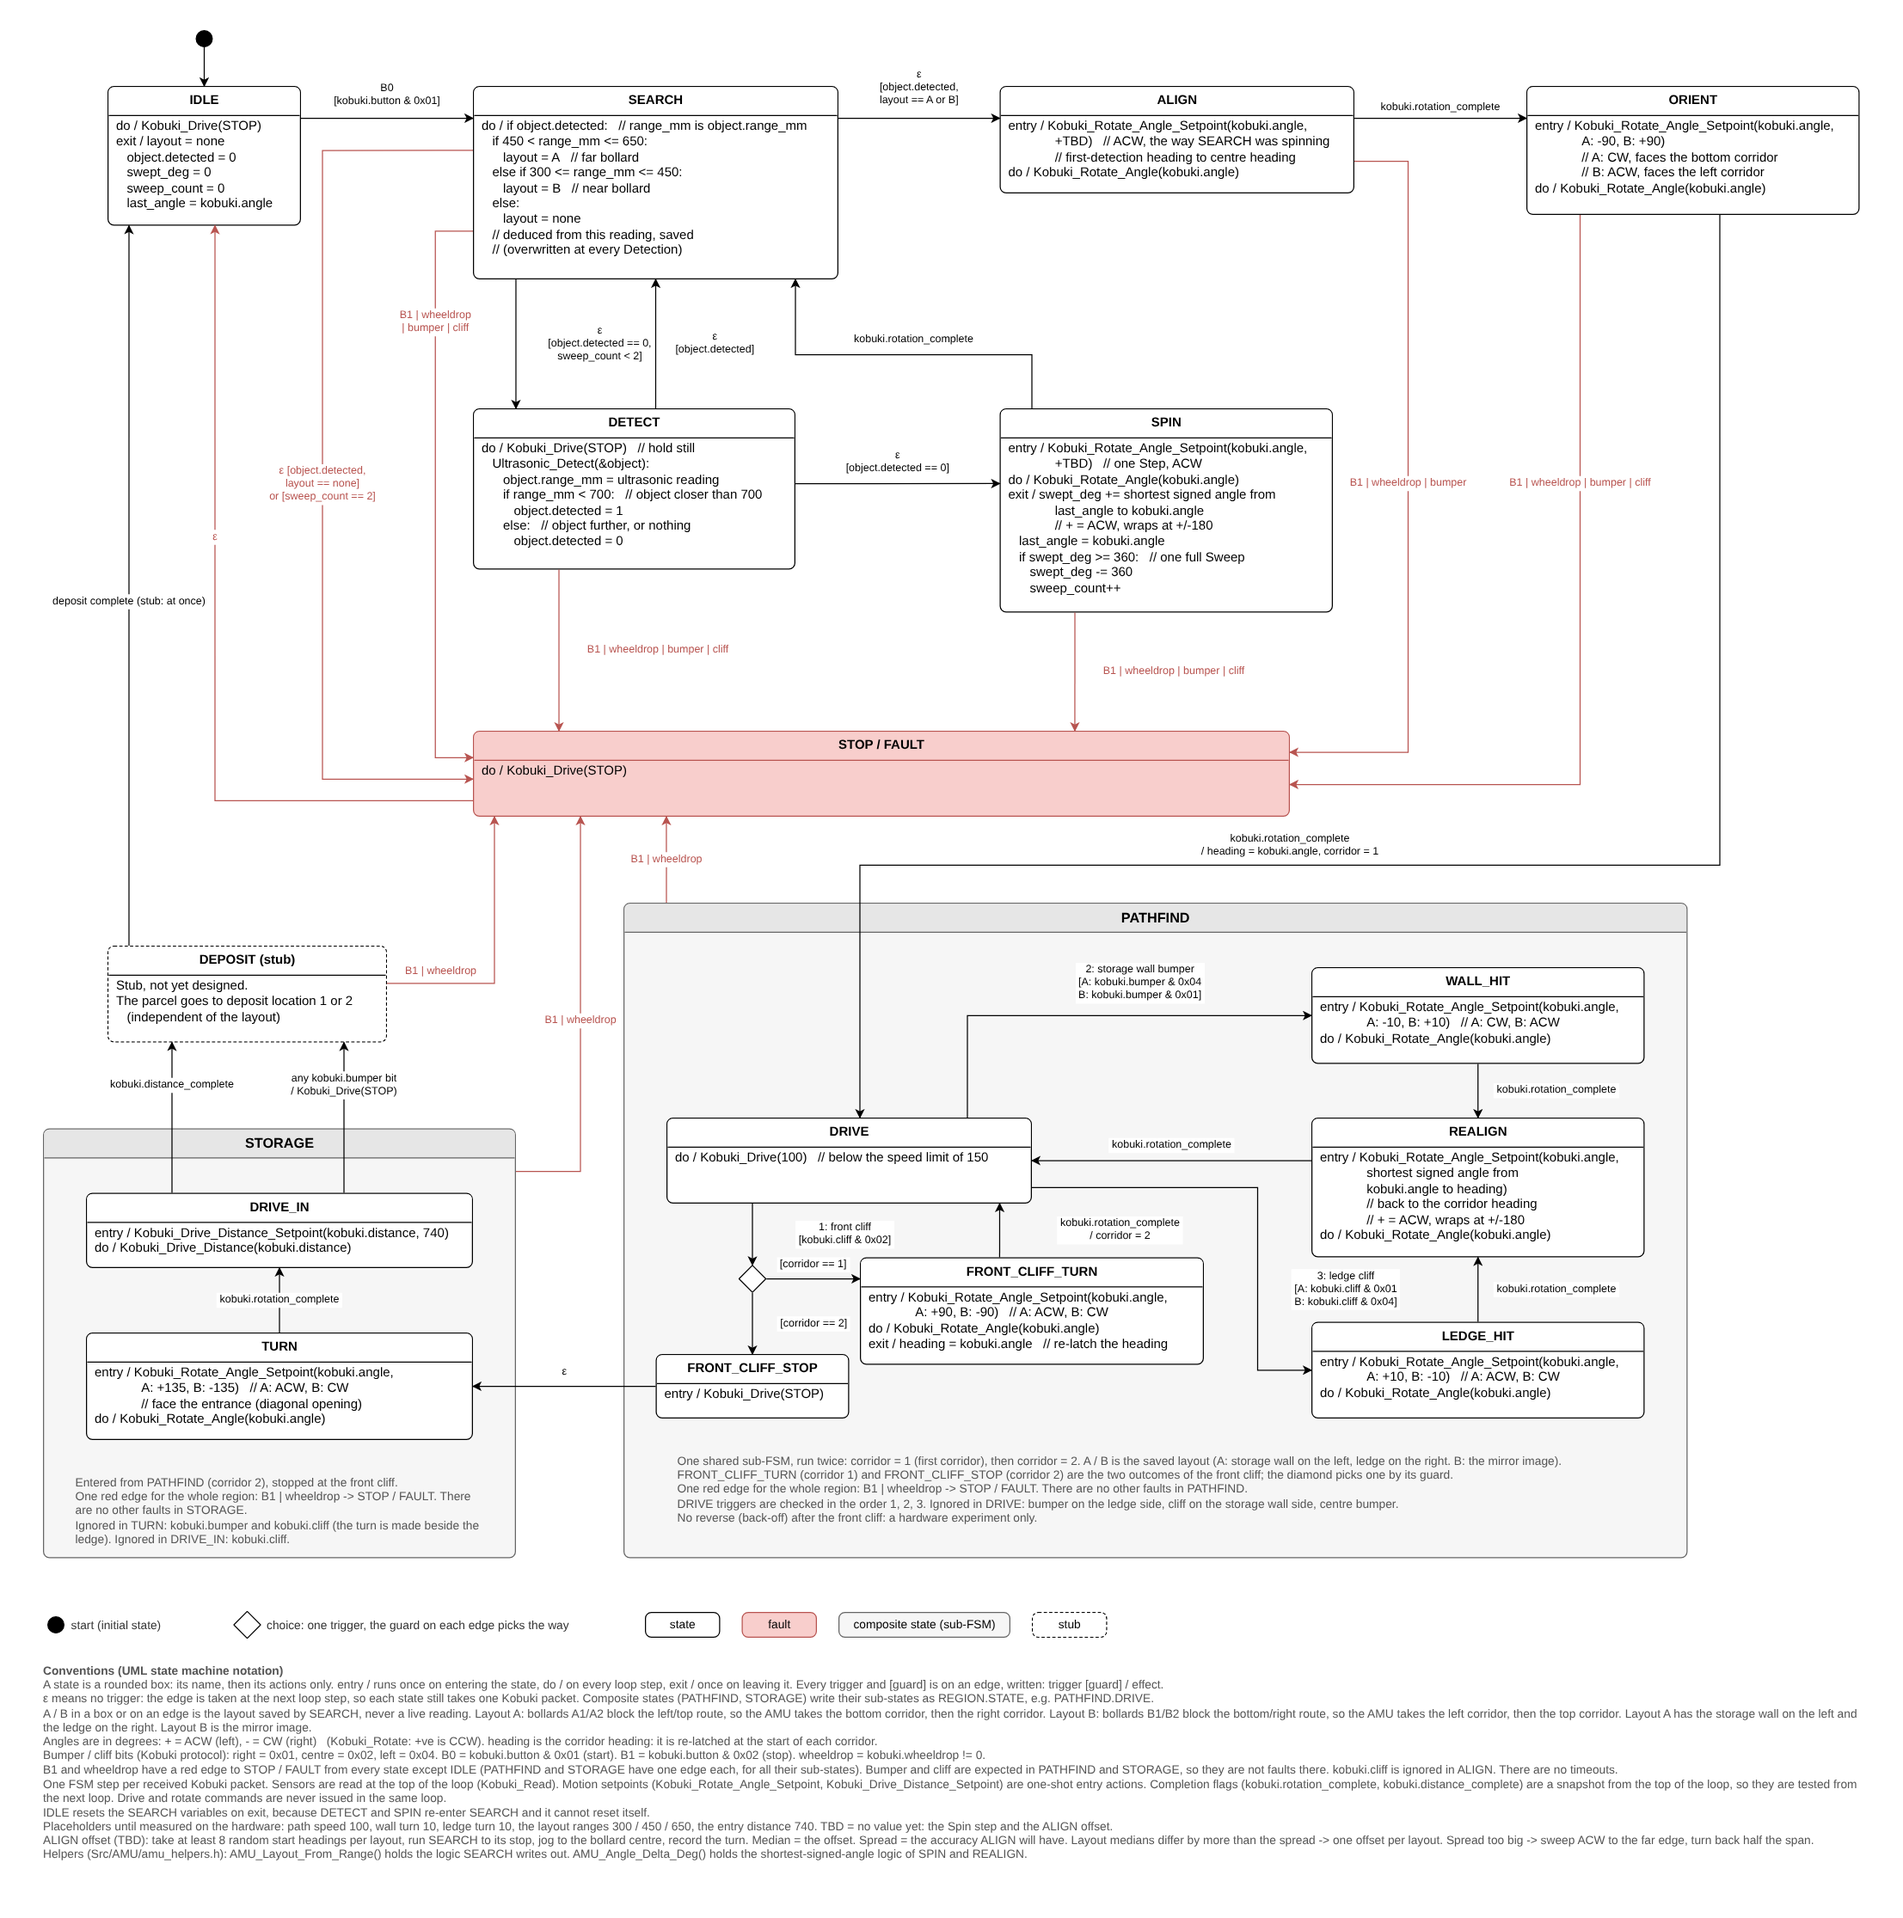
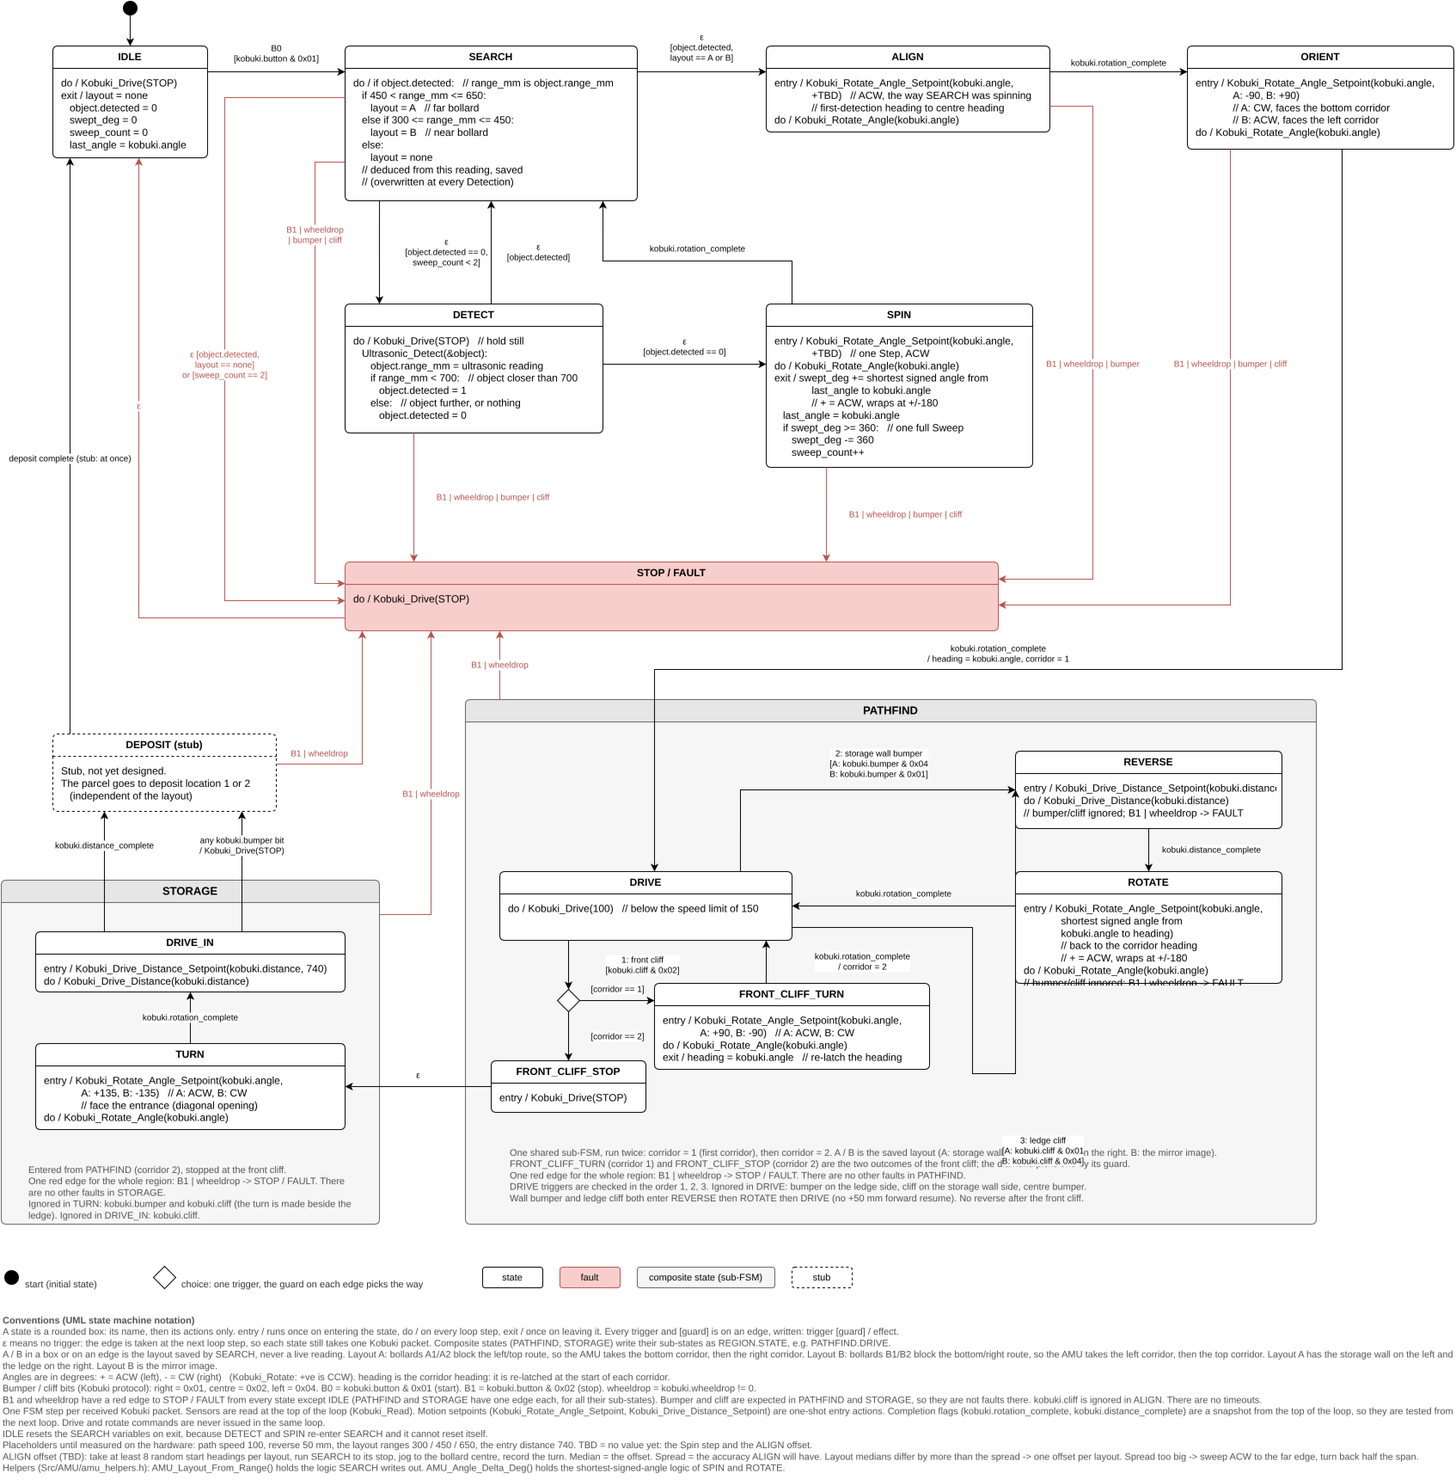
Document Pathfind Reverse and Rotate recovery.
Add pathfind working notes, refresh the FSM preview, and point the README at the updated glossary and diagram.

diff --git a/docs/pathfind.md b/docs/pathfind.md
@@ -1,0 +1,87 @@
+# Pathfind
+
+How the AMU drives the two corridors while staying clear of the storage wall and the ledge. Terms match [`GLOSSARY.md`](../GLOSSARY.md). The diagram is [`amu_fsm.drawio`](amu_fsm.drawio) (preview: [`amu_fsm_preview.png`](amu_fsm_preview.png)).
+
+Pathfind runs once per corridor (`corridor = 1`, then `corridor = 2` after Front-cliff turn). Layout A has the storage wall on the left and the ledge on the right; Layout B is the mirror image.
+
+## States
+
+| State | Role |
+| --- | --- |
+| **Drive** | Cruise forward along the corridor heading |
+| **Reverse** | Back a fixed distance after a wall bumper or ledge cliff |
+| **Rotate** | Turn the shortest way back to the corridor heading |
+| **Front-cliff turn** | End of corridor 1: 90° onto corridor 2, latch new heading |
+| **Front-cliff stop** | End of corridor 2: stop, then leave Pathfind into Storage Turn |
+
+There are no Wall hit, Ledge hit, or Realign states. Wall and ledge events both enter **Reverse**.
+
+## Flow
+
+```
+Drive
+  ├─ front centre cliff, corridor 1  → Front-cliff turn → Drive (corridor 2)
+  ├─ front centre cliff, corridor 2  → Front-cliff stop → Storage Turn
+  ├─ storage-wall bumper             → Reverse → Rotate → Drive
+  └─ ledge cliff                     → Reverse → Rotate → Drive
+```
+
+Drive checks those triggers in that order (front cliff, then wall bumper, then ledge cliff).
+
+## Drive
+
+- **Do:** `Kobuki_Drive(FSM_PATHFIND_DRIVE_SPEED)` (100 mm/s).
+- **Storage-wall bumper:** Layout A left (`0x04`), Layout B right (`0x01`). Ledge-side bumper is ignored.
+- **Ledge cliff:** Layout A right (`0x01`), Layout B left (`0x04`). Storage-wall-side cliff is ignored.
+- **Front cliff:** centre cliff (`0x02`). No reverse after a front cliff.
+- **Ignored in Drive:** ledge-side bumper, storage-wall-side cliff, centre bumper.
+
+## Reverse
+
+Entered from Drive when the storage-wall bumper or ledge cliff fires.
+
+- **Entry:** distance setpoint `−FSM_PATHFIND_REVERSE_MM` (−50 mm).
+- **Do:** `Kobuki_Drive_Distance` until `distance_complete`.
+- **Then:** always enter **Rotate** (even if the heading delta is already ~0°).
+- **Sensors:** bumper and cliff are ignored here. Only B1 or wheeldrop → Fault.
+
+## Rotate
+
+Entered from Reverse when the back-off finishes.
+
+- **Entry:** shortest signed angle from `kobuki.angle` to `fsm_data.heading` (corridor heading latched by Orient / Front-cliff turn), via `Angle_Delta_Deg` (+ = anticlockwise, wraps at ±180°).
+- **Do:** `Kobuki_Rotate_Angle` until `rotation_complete`.
+- **Then:** return to **Drive**. There is no matching +50 mm forward resume after Rotate.
+- **Sensors:** same as Reverse — bumper/cliff ignored; B1 or wheeldrop → Fault.
+
+If Drive still sees the wall bumper or ledge cliff on the next tick after Rotate, it enters Reverse again (no “sensors must be clear” gate).
+
+## Front-cliff turn / stop
+
+Unchanged by the Reverse/Rotate split:
+
+- **Turn (corridor 1):** Layout A +90°, Layout B −90°; on exit, latch `heading` and set `corridor = 2`, then Drive.
+- **Stop (corridor 2):** stop once, then Storage Turn.
+
+## Constants
+
+| Macro | Value | Used by |
+| --- | --- | --- |
+| `FSM_PATHFIND_DRIVE_SPEED` | 100 | Drive |
+| `FSM_PATHFIND_REVERSE_MM` | 50 | Reverse |
+| `FSM_PATHFIND_CORNER_A_DEG` / `_B_DEG` | +90 / −90 | Front-cliff turn |
+
+## Faults
+
+One red edge for the whole Pathfind region: **B1 or wheeldrop → Fault**. No other Pathfind-specific faults.
+
+## Code
+
+| State | File |
+| --- | --- |
+| Drive | `Src/FSM_state/states/state_pathfind_drive.c` |
+| Reverse | `Src/FSM_state/states/state_pathfind_reverse.c` |
+| Rotate | `Src/FSM_state/states/state_pathfind_rotate.c` |
+| Front-cliff turn | `Src/FSM_state/states/state_pathfind_front_cliff_turn.c` |
+| Front-cliff stop | `Src/FSM_state/states/state_pathfind_front_cliff_stop.c` |
+| Ids / macros | `Src/FSM_state/fsm_states.h` |

diff --git a/GLOSSARY.md b/GLOSSARY.md
@@ -100,15 +100,15 @@ The phase in which the AMU drives the first corridor and then the second, keepin
 _Avoid_: navigate, route-follow, PATHFIND 1 / PATHFIND 2 (it is one phase run twice)
 
 **Drive**:
-The State in which the AMU drives forward along the current corridor until a front cliff, the storage wall or the ledge intervenes.
+The State in which the AMU drives forward along the current corridor until a front cliff, the storage wall or the ledge intervenes. A storage-wall bumper or ledge cliff sends it into Reverse; a front cliff ends the corridor.
 _Avoid_: PATHFIND_DRIVE (code id), cruise
 
 **Reverse**:
-The State in which the AMU backs a fixed distance clear of the storage wall or the ledge after that side's bumper or cliff fires during Drive.
+The State in which the AMU backs a fixed distance clear of the storage wall or the ledge after that side's bumper or cliff fires during Drive, then always enters Rotate.
 _Avoid_: Realign, back-off, PATHFIND_REVERSE (code id)
 
 **Rotate**:
-The State in which the AMU turns the shortest way back to the corridor heading after Reverse, then returns to Drive.
+The State in which the AMU turns the shortest way back to the corridor heading after Reverse, then returns to Drive with no forward resume.
 _Avoid_: Realign, Spin (Search), Turn (Storage), PATHFIND_ROTATE (code id)
 
 **Front-cliff turn**:

diff --git a/README.md b/README.md
@@ -1,4 +1,16 @@
 # MicroControllingProject
+
 - Hiten
 - Safin
 - Shaheer M
+
+## Docs
+
+| Doc | What it is |
+| --- | --- |
+| [`GLOSSARY.md`](GLOSSARY.md) | Shared vocabulary for the FSM, report, and code |
+| [`docs/pathfind.md`](docs/pathfind.md) | Pathfind states and how Drive / Reverse / Rotate work |
+| [`docs/amu_fsm.drawio`](docs/amu_fsm.drawio) | Full AMU FSM diagram (edit in diagrams.net) |
+| [`docs/amu_fsm_preview.png`](docs/amu_fsm_preview.png) | PNG preview of that diagram |
+
+Pathfind recovery is **Drive → Reverse (−50 mm) → Rotate (to corridor heading) → Drive**. There is no Realign, Wall hit, or Ledge hit state.
